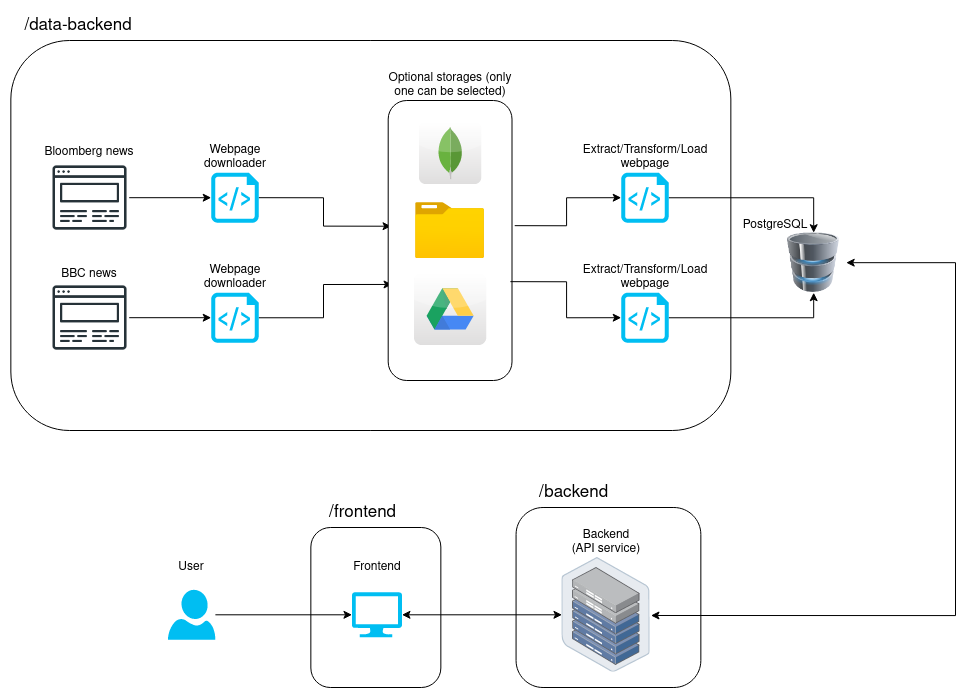
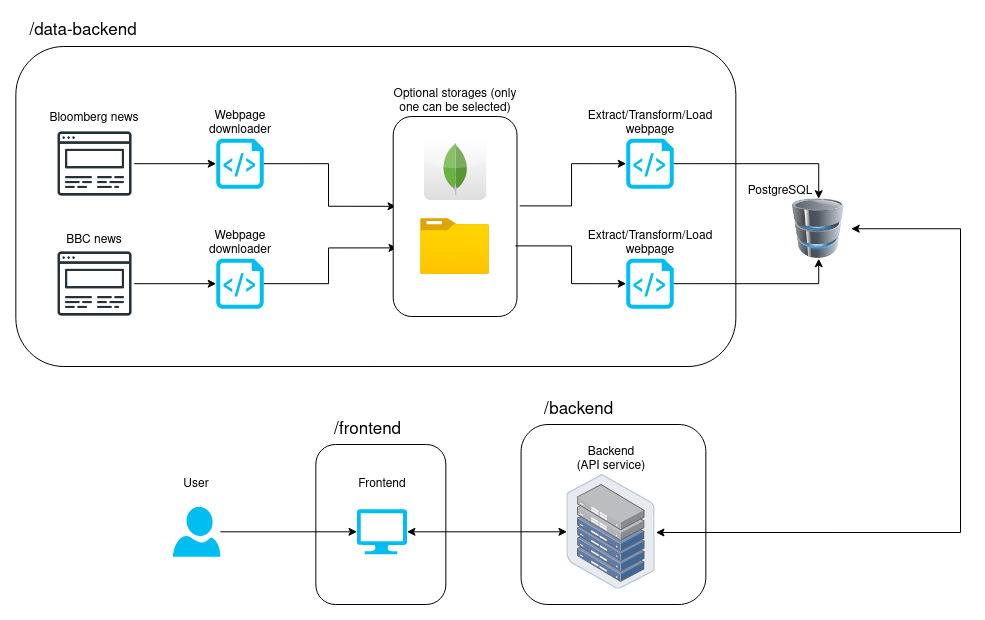
Updated README.md

diff --git a/README.md b/README.md
@@ -28,8 +28,8 @@ Even most financial news outlets provide API services for data consumption, most
 Follow the next steps:
 
 * Prepare the database:
-	  * Open your favourite SQL database and create the database and the table using `setup.sql` helper script.
-	  * Open the `config.py` file and modify the `SQLALCHEMY_DATABASE_URL` to use the database you just created.
+	* Open your favourite SQL database and create the database and the table using `setup.sql` helper script.
+	* Open the `config.py` file and modify the `SQLALCHEMY_DATABASE_URL` to use the database you just created.
 
 * Prepare the data-backend service:
 	* Install the required python packages via `pip install -r requirements.txt`. (It is recommended to use virtual environments when installing them to avoid conflicting version issues).
@@ -95,7 +95,7 @@ Database size:
 ## How it works
 The repository is divided into three parts: 
 
-* Data-backend: Contains the code to collect news webpages and extract and enrich headline related data and place it into a database. It can store the downloaded webpages in three ways: Local storage, Google drive and mongoDB. The reason for having multiple options of storage is to facilitate the deployment of this code in simple machines, as well utilize more advance (and costly options).
+* Data-backend: Contains the code to collect news webpages and extract and enrich headline related data and place it into a database. It can store the downloaded webpages in two ways: Local storage and mongoDB. The reason for having multiple options of storage is to facilitate the deployment of this code in simple machines, as well utilize more advance (and costly options).
 * Frontend: Contains the code for the UI to facilitate the basic analytics functionality.
 * Backend: Contains the code for the frontend to consume the data. It is an intermediary API service to facilitate data fetching.
 
@@ -109,19 +109,10 @@ Note that each service should be ran in their own environment, as they work inde
 	</div>
 </div>
 
-# Future functionalities
+# Future functionalities/Considerations
 
-* When using the folder/Google drive storage mode, the ETL will load and analyze all the files, **even the ones already analyzed**. This is can easily be avoid by fetching the latest file's date, and avoiding loading it. Another solution may include moving those already processed files to another location. 
+* Every time the script runs, all the files are reloaded in search of headlines, **even the ones already analyzed**.. This is quite a waste of resources as unless the ETL process changes, no new data will be extracted. To avoid this behaviour, two solutions can be implemented:
+  * Move the already analyzed files to another location (or flag them as analyzed if using MongoDB).
+  * Creating a table to store the files already analyzed and only analyze the files that are not in that list.
 
-* Due to the simplicity of the program, the files will be keep being reanalyzed to be uploaded, even when the files where already analyzed!
-
-* Due to Bloomberg's anti bot features (which blocks any get request to urls), it was decided to open/close a browser everytime a url is visted. This, even if a bit unperformant, circumbents this issue and allows for retrieval of the pages.
-
-## To DO
-
-* Add logging functionality
-* Add unit testing to at least the basic extraction functions
-* Improve documentation
-* Add frontend to do some basic analytics
-* Replace SQL insert functionality to do it more efficiently (currently it is being done via pandas)
-* Add type hinting to all functions
+* Due to Bloomberg's anti bot features (which blocks any get request to urls), it was decided to open/close a browser every time a url is visited. This, even if not very performant, circumvents this issue and allows for retrieval of the pages.
